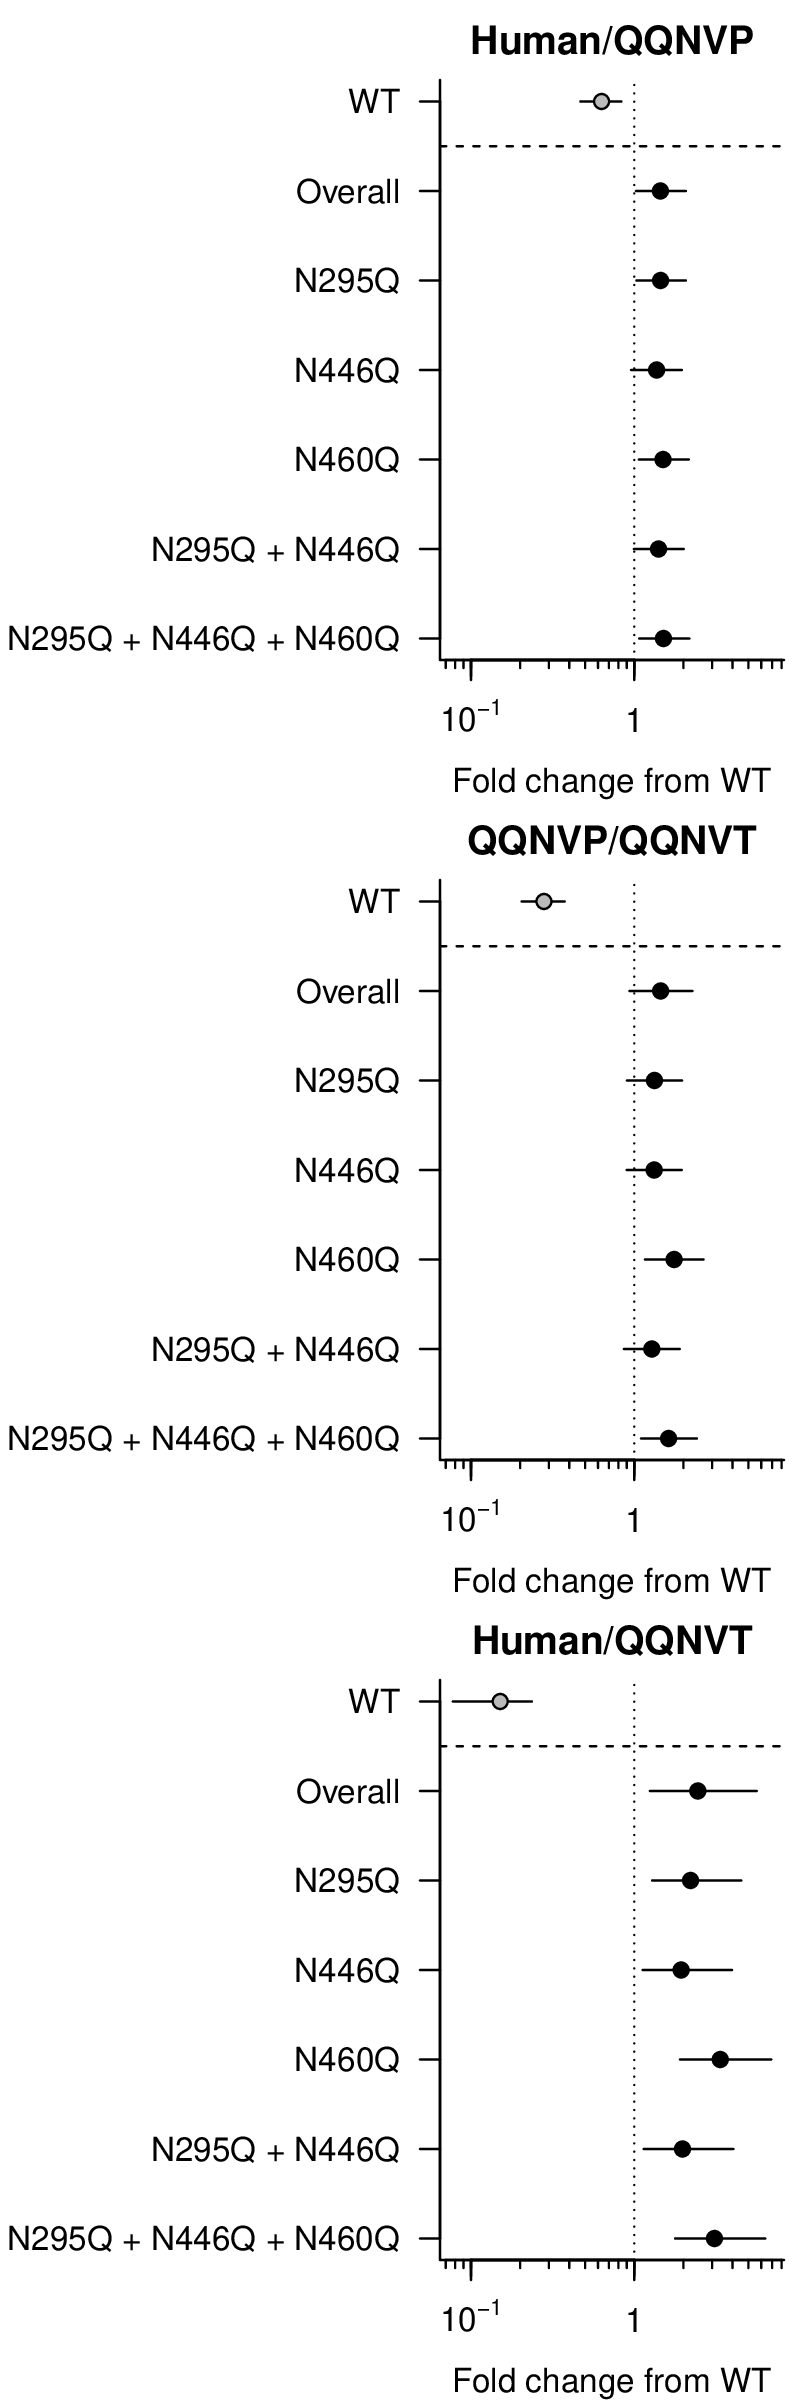
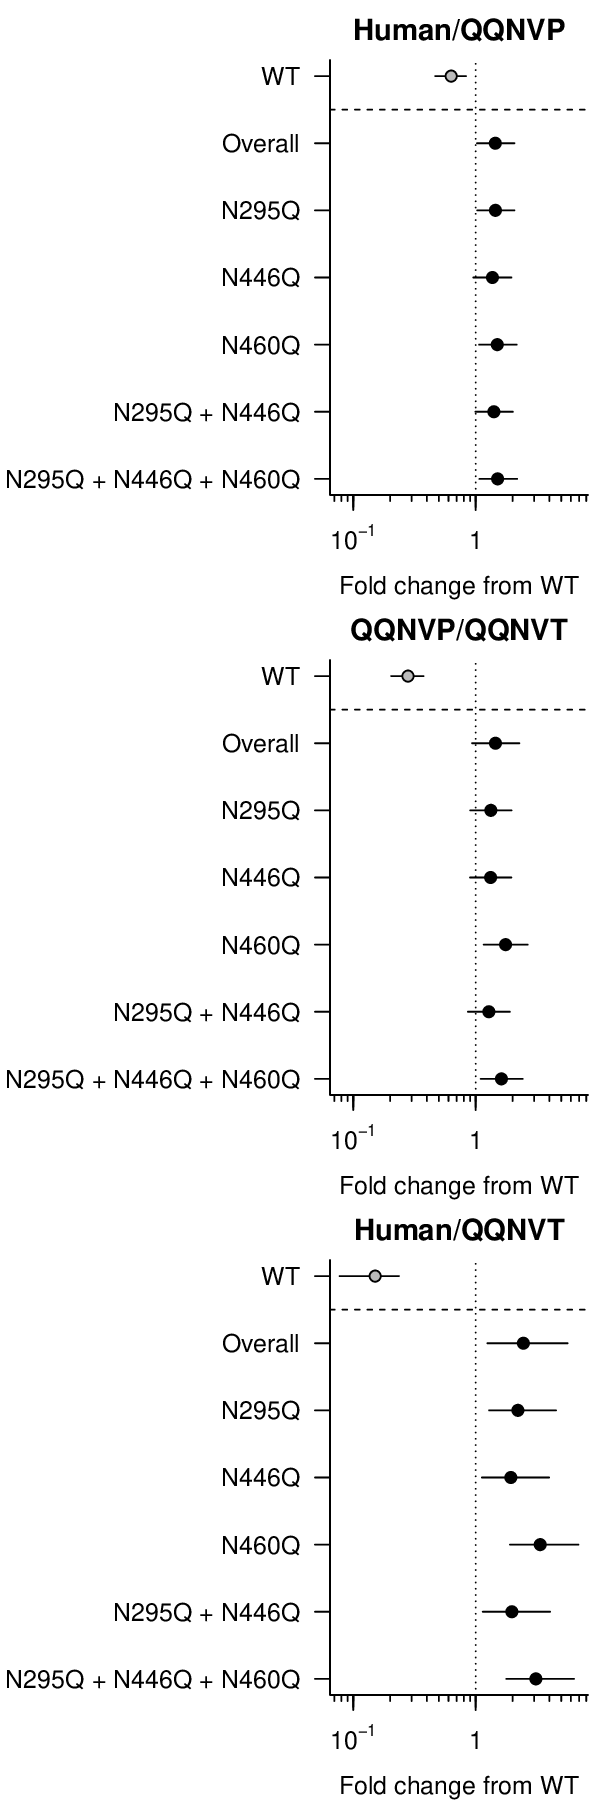
Decrease resolution. Add readme example files

diff --git a/README.md b/README.md
@@ -17,6 +17,21 @@ This code should generate analysis result files in the `out` directory. Example 
 ### Bayesian estimates
 ![SICcpz envs Bayesian estimates](exampleOut/cpzFits.png)
 
+## SIV envs
+### Raw data
+![SIV env raw infectivity](exampleOut/monkeyRaw.png)
+### Bayesian estimates
+![SIV env Bayesian estimates](exampleOut/monkeyFits.png)
+
+
+## MB897 mutants
+### Raw data
+![MB897 mutants raw infectivity](exampleOut/mbRaw.png)
+### Bayesian estimates
+![MB897 mutants Bayesian estimates](exampleOut/mbFits.png)
+
+
+
 
 
 
